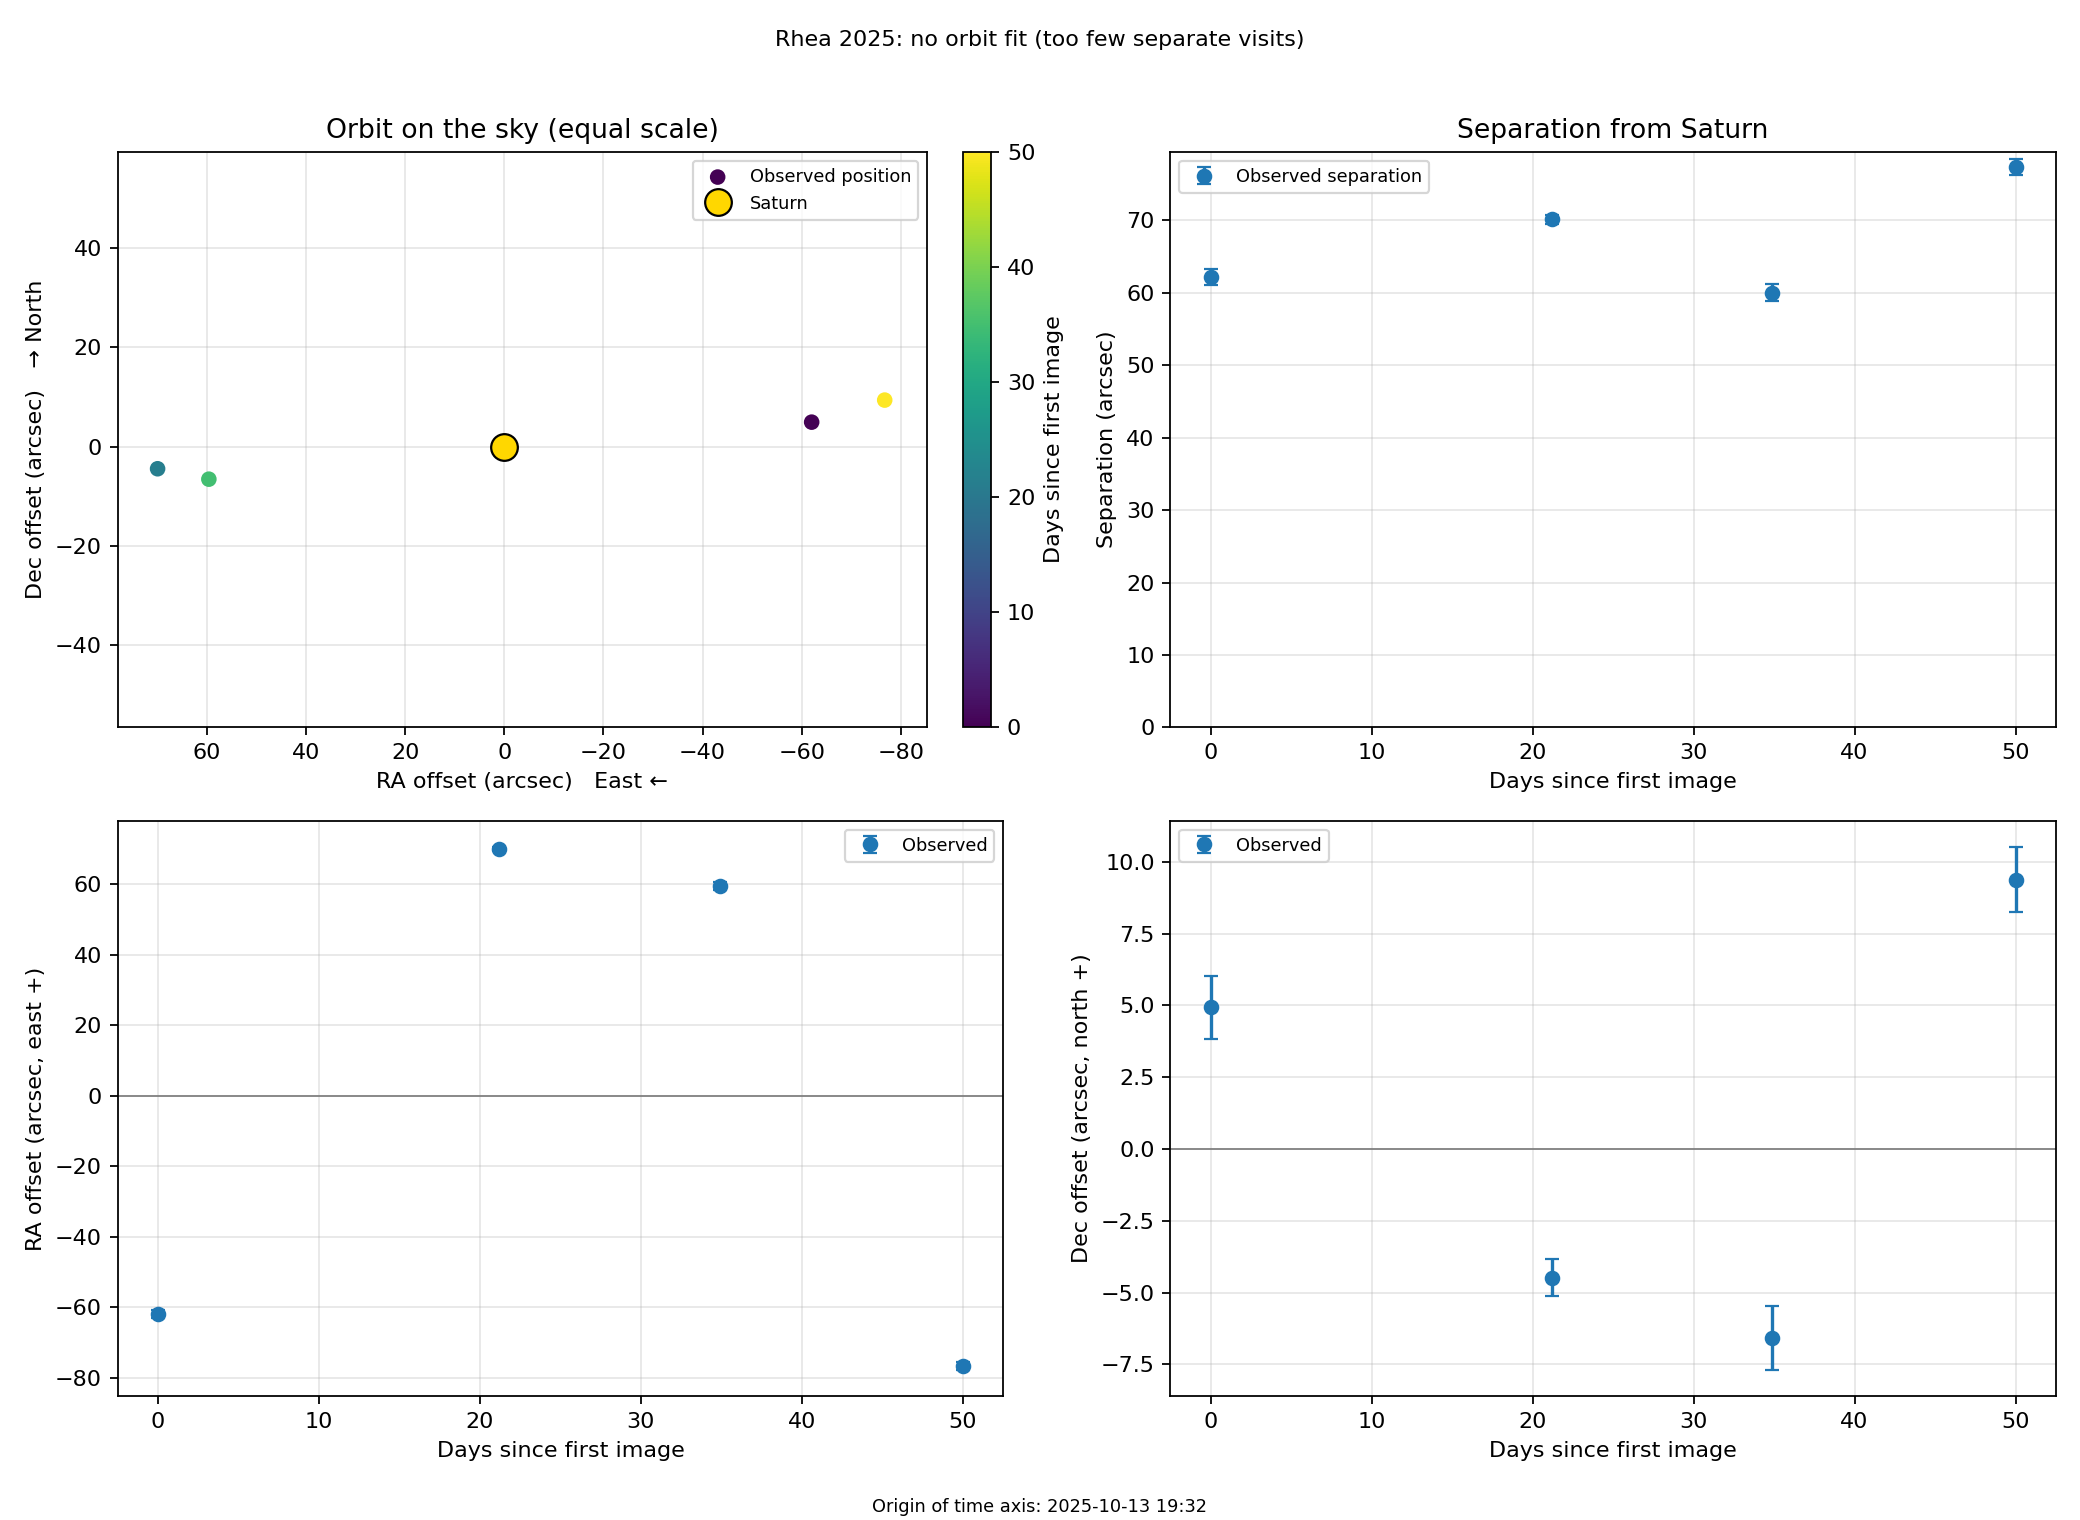
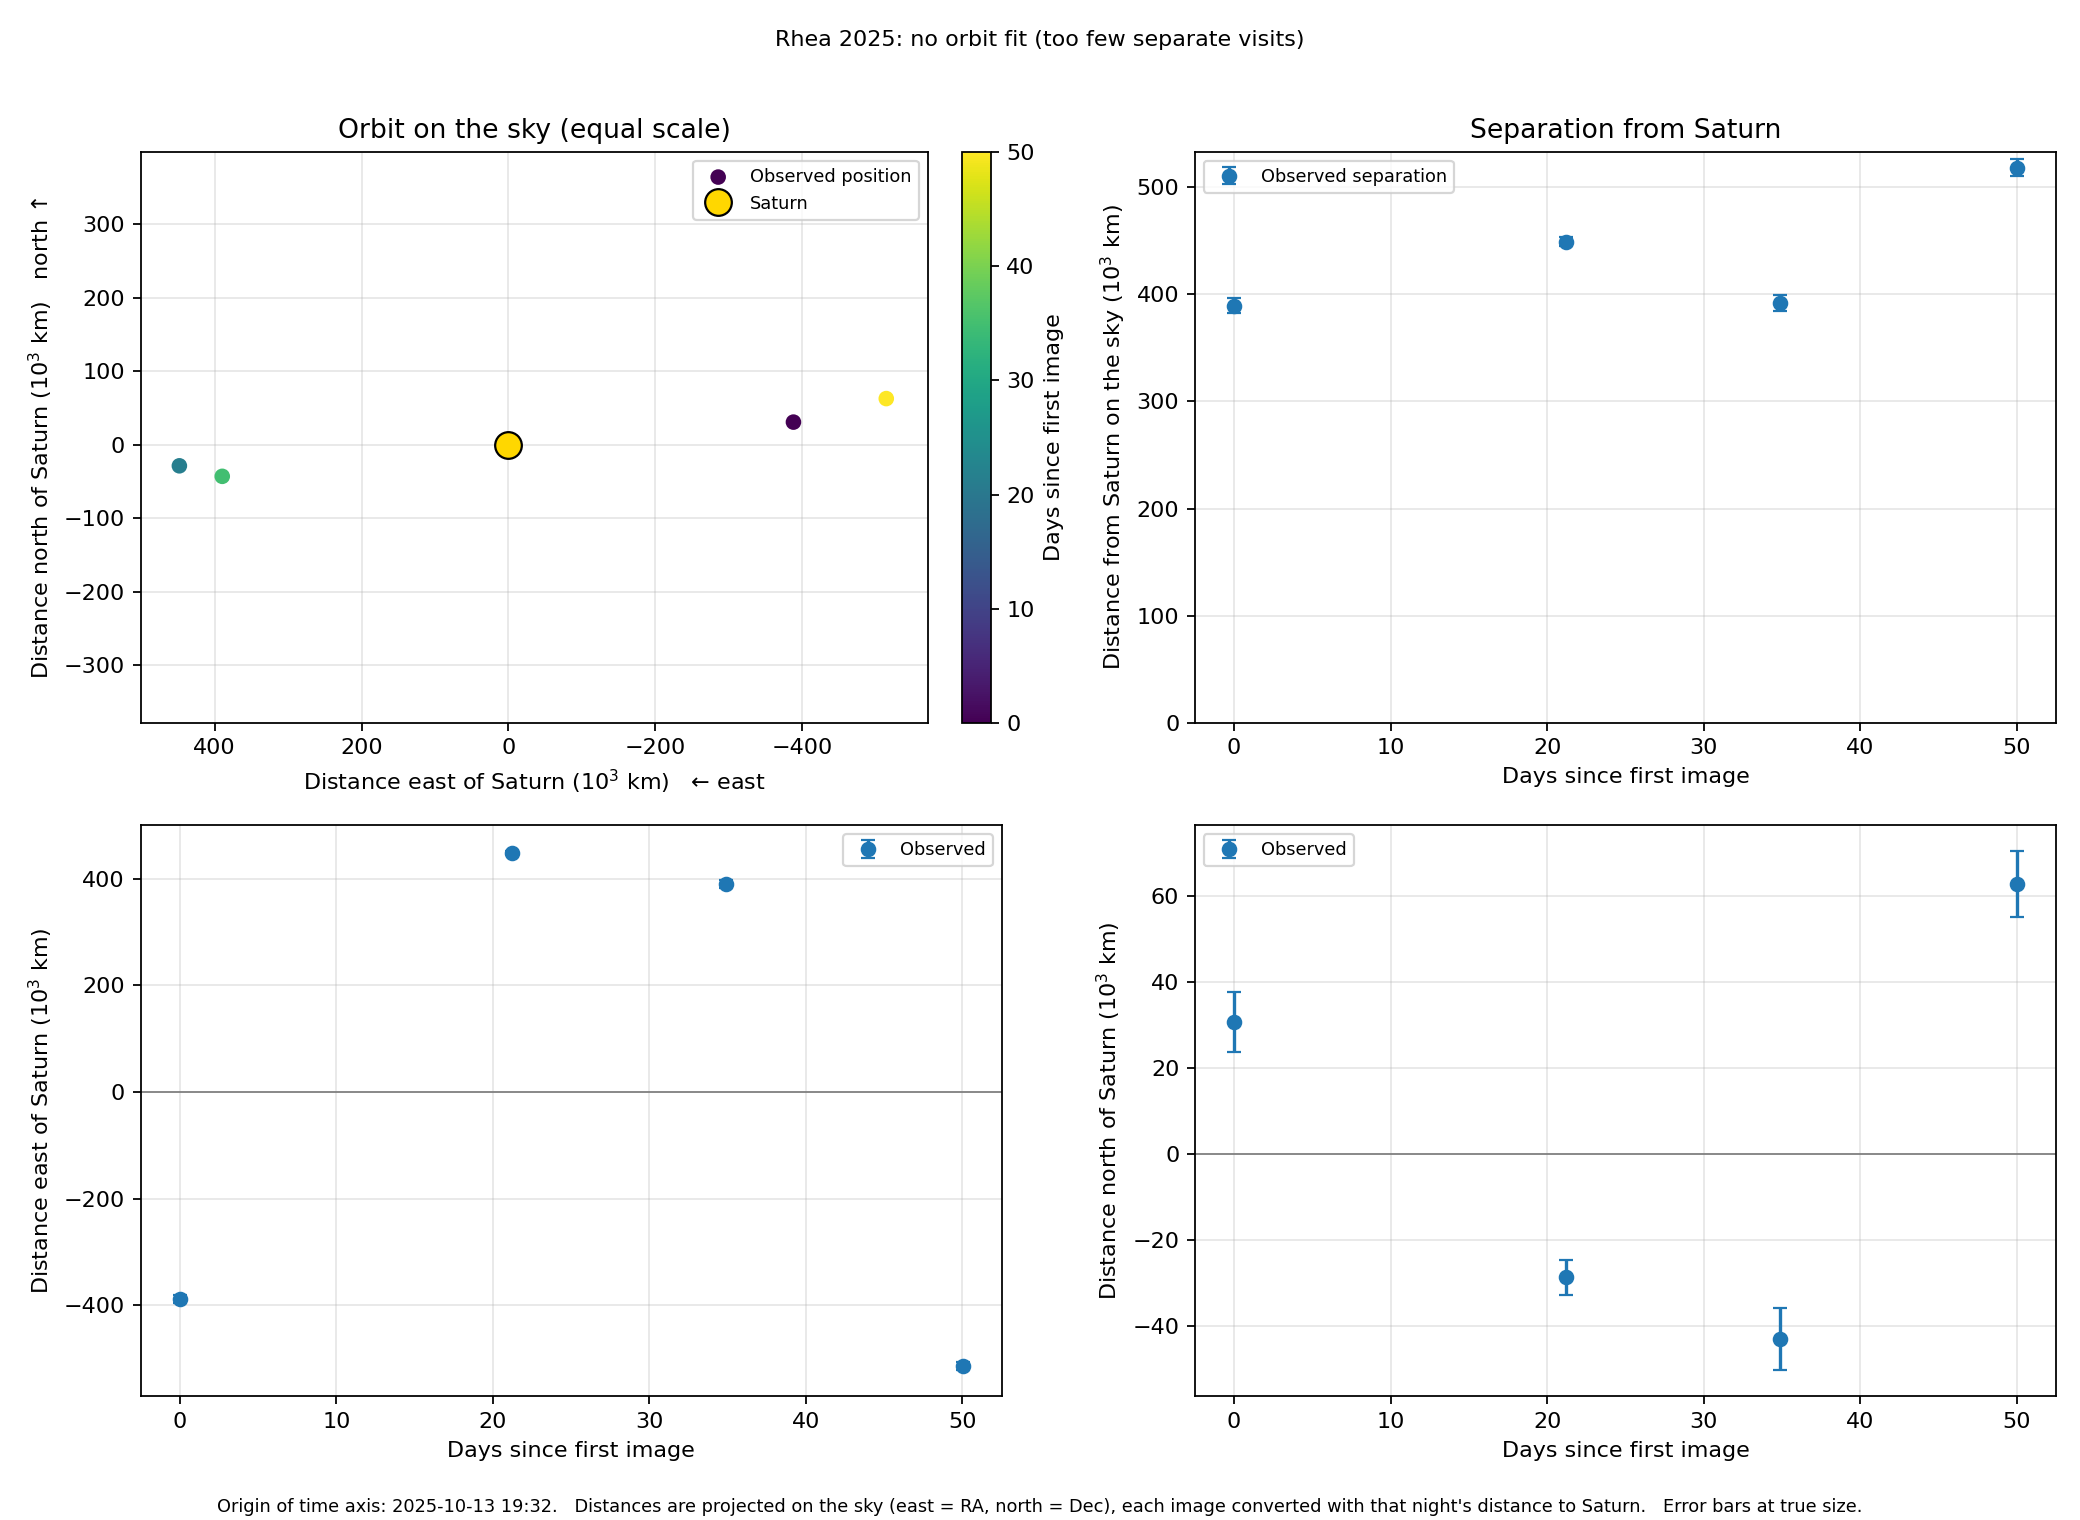
h

diff --git a/orbit_fit.py b/orbit_fit.py
@@ -120,14 +120,9 @@ MAKE_3D_PLOTS = True
 DZ_ERROR_KM = None
 ERRORBAR_COLOUR = "0.25"
 
-# The errors are thousands of km on orbits a million km across, so at true
-# size the bars hide behind the points. Two ways to make them visible:
-#  1. Magnify the bars on the orbit plots. "auto" picks a round factor so a
-#     typical bar is about 4% of the plot width; a number sets it yourself;
-#     1 draws them at true size. The factor is always written on the plot.
-#  2. A separate residual plot per moon (measured minus fitted position),
-#     where the bars are drawn at TRUE size on a zoomed-in scale.
-ERRORBAR_MAGNIFY = "1"
+# Every error bar is drawn at its TRUE size. On the full orbit plots they are
+# often smaller than the points; the residual plot per moon (measured minus
+# fitted position, zoomed in) shows them clearly, still at true size.
 MAKE_RESIDUAL_PLOTS = True
 
 # Direction check. All of a planet's regular moons orbit the same way (the
@@ -855,9 +850,40 @@ def model_from_fit(fit, t):
 # PLOTS
 # ============================================================
 
-def _sky_axes_labels(ax):
-    ax.set_xlabel("RA offset (arcsec)   East ←")
-    ax.set_ylabel("Dec offset (arcsec)   → North")
+def _km_scales(group, parent):
+    """
+    km per arcsec for every image (from that night's planet distance) and
+    km per arcsec at the reference distance the fit used (the mean distance).
+    The fit works in "arcsec at the reference distance", so the model is
+    converted with km_ref and each measured point with its own night's value.
+    Returns (km_each, km_ref), or (None, None) if no distance is known.
+    """
+
+    dsat = (
+        group["dsat_km"].to_numpy(dtype=float)
+        if "dsat_km" in group else np.full(len(group), np.nan)
+    )
+    finite = dsat[np.isfinite(dsat)]
+
+    if len(finite):
+        d_ref = float(finite.mean())
+    else:
+        au = FALLBACK_PLANET_DISTANCE_AU.get(parent)
+        if au is None:
+            return None, None
+        d_ref = au * 1.495978707e8
+
+    km_each = np.where(np.isfinite(dsat), dsat, d_ref) / ARCSEC_PER_RAD
+    return km_each, d_ref / ARCSEC_PER_RAD
+
+
+def _sky_axes_labels(ax, parent="planet", in_km=True):
+    # Projected distance from the planet on the sky, along the RA (east)
+    # and Dec (north) directions. Each night is converted to km with that
+    # night's distance, so a change in distance does not change the size.
+    unit = "10$^3$ km" if in_km else "arcsec"
+    ax.set_xlabel(f"Distance east of {parent.capitalize()} ({unit})   ← east")
+    ax.set_ylabel(f"Distance north of {parent.capitalize()} ({unit})   north ↑")
     ax.invert_xaxis()      # east on the left, as on the sky
     ax.set_aspect("equal", adjustable="datalim")
     ax.grid(True, alpha=0.3)
@@ -867,12 +893,37 @@ def plot_moon_year(group, fit, moon, year, parent, origin, path):
     """2 x 2 figure: sky-plane orbit, separation, RA(t), Dec(t)."""
 
     t = group["t"].to_numpy()
-    xi = group["sky_x_arcsec"].to_numpy()
-    eta = group["sky_y_arcsec"].to_numpy()
-    sep = group["separation_arcsec"].to_numpy()
-    sxi = group["sigma_sky_x"].to_numpy()
-    seta = group["sigma_sky_y"].to_numpy()
-    ssep = group["error_arcsec"].to_numpy()
+
+    # Everything is plotted as distance (thousands of km), not angle: each
+    # image is converted with that night's planet distance, and the model
+    # with the reference distance the fit used.
+    km_each, km_ref = _km_scales(group, parent)
+    in_km = km_each is not None
+    if in_km:
+        each = km_each / 1e3
+        ref = km_ref / 1e3
+        unit, unit_short = "10$^3$ km", "×10$^3$ km"
+    else:
+        each = np.ones(len(group))
+        ref = 1.0
+        unit, unit_short = "arcsec", "″"
+
+    xi = group["sky_x_arcsec"].to_numpy(dtype=float) * each
+    eta = group["sky_y_arcsec"].to_numpy(dtype=float) * each
+    sep = group["separation_arcsec"].to_numpy(dtype=float) * each
+    sxi = group["sigma_sky_x"].to_numpy(dtype=float) * each
+    seta = group["sigma_sky_y"].to_numpy(dtype=float) * each
+    ssep = group["error_arcsec"].to_numpy(dtype=float) * each
+
+    ecc = fit.get("ecc") if fit is not None else None
+
+    def model_xy(tt):
+        mx, my = model_from_fit(fit, tt)
+        return mx * ref, my * ref
+
+    def ecc_xy(tt):
+        x, y, _ = ecc_xyz(ecc, tt)
+        return x * ref, y * ref
 
     fig, axes = plt.subplots(2, 2, figsize=(13, 9.5))
     ax_sky, ax_sep, ax_xi, ax_eta = (
@@ -900,22 +951,20 @@ def plot_moon_year(group, fit, moon, year, parent, origin, path):
 
     if fit is not None:
         tt = np.linspace(0, fit["period"], 600)
-        ex, ey = model_from_fit(fit, tt)
+        ex, ey = model_xy(tt)
         ax_sky.plot(ex, ey, "--", color="tab:red", lw=1.2, label="Fitted orbit")
 
-        mx, my = model_from_fit(fit, t)
+        mx, my = model_xy(t)
         for x1, y1, x2, y2 in zip(xi, eta, mx, my):
             ax_sky.plot([x1, x2], [y1, y2], "-", color="tab:red", lw=0.8)
 
-    ecc = fit.get("ecc") if fit is not None else None
-
     if ecc is not None:
-        ex2, ey2, _ = ecc_xyz(ecc, np.linspace(0, ecc["period"], 600))
+        ex2, ey2 = ecc_xy(np.linspace(0, ecc["period"], 600))
         ax_sky.plot(ex2, ey2, "-", color="tab:orange", lw=1.4,
                     label=f"Eccentric fit (e = {ecc['e']:.3f})")
 
     ax_sky.set_title("Orbit on the sky (equal scale)")
-    _sky_axes_labels(ax_sky)
+    _sky_axes_labels(ax_sky, parent, in_km)
     ax_sky.legend(fontsize=8, loc="upper right")
 
     # ---- model time grid ------------------------------------
@@ -930,27 +979,27 @@ def plot_moon_year(group, fit, moon, year, parent, origin, path):
         label="Observed separation",
     )
     if fit is not None:
-        gx, gy = model_from_fit(fit, tg)
+        gx, gy = model_xy(tg)
         ax_sep.plot(tg, np.hypot(gx, gy), "-", color="tab:red", label="Model")
         ax_sep.axhline(
-            fit["a"], ls=":", color="k", lw=1,
-            label=f"a = {fit['a']:.1f}″ (max)",
+            fit["a"] * ref, ls=":", color="k", lw=1,
+            label=f"a = {fit['a'] * ref:,.1f} {unit_short} (max)",
         )
         ax_sep.axhline(
-            abs(fit["k"]) * fit["a"], ls=":", color="tab:blue", lw=1,
-            label=f"b = {abs(fit['k']) * fit['a']:.2f}″ (min)",
+            abs(fit["k"]) * fit["a"] * ref, ls=":", color="tab:blue", lw=1,
+            label=f"b = {abs(fit['k']) * fit['a'] * ref:,.1f} {unit_short} (min)",
         )
     ax_sep.set_title(f"Separation from {parent.capitalize()}")
     ax_sep.set_xlabel("Days since first image")
-    ax_sep.set_ylabel("Separation (arcsec)")
+    ax_sep.set_ylabel(f"Distance from {parent.capitalize()} on the sky ({unit})")
     ax_sep.set_ylim(bottom=0)
     ax_sep.grid(True, alpha=0.3)
     ax_sep.legend(fontsize=8)
 
     # ---- RA and Dec against time ----------------------------
     for ax, data, err, name, comp in (
-        (ax_xi, xi, sxi, "RA offset (arcsec, east +)", 0),
-        (ax_eta, eta, seta, "Dec offset (arcsec, north +)", 1),
+        (ax_xi, xi, sxi, f"Distance east of {parent.capitalize()} ({unit})", 0),
+        (ax_eta, eta, seta, f"Distance north of {parent.capitalize()} ({unit})", 1),
     ):
         ax.errorbar(
             t, data, yerr=bars(data, data, err), fmt="o", capsize=3,
@@ -958,13 +1007,13 @@ def plot_moon_year(group, fit, moon, year, parent, origin, path):
         )
         if fit is not None:
             ax.plot(
-                tg, model_from_fit(fit, tg)[comp], "-", color="tab:red",
+                tg, model_xy(tg)[comp], "-", color="tab:red",
                 label="Circular model",
             )
 
             if ecc is not None:
                 ax.plot(
-                    tg, ecc_xyz(ecc, tg)[comp], "-", color="tab:orange",
+                    tg, ecc_xy(tg)[comp], "-", color="tab:orange",
                     label="Eccentric model",
                 )
         ax.axhline(0, color="0.5", lw=0.8)
@@ -976,8 +1025,8 @@ def plot_moon_year(group, fit, moon, year, parent, origin, path):
     if fit is not None:
         tilt = np.degrees(np.arcsin(min(abs(fit["k"]), 1.0)))
         title = (
-            f"{moon.capitalize()} {year}:  a = {fit['a']:.2f} ± "
-            f"{fit['a_err']:.2f}″,  b/a = {abs(fit['k']):.3f} "
+            f"{moon.capitalize()} {year}:  a = {fit['a'] * ref:,.1f} ± "
+            f"{fit['a_err'] * ref:,.1f} {unit_short},  b/a = {abs(fit['k']):.3f} "
             f"(tilt {tilt:.1f}°),  P = {fit['period']:.4f} ± "
             f"{fit['period_err']:.4f} d ({fit['period_status']}, "
             f"{'with dz' if fit['used_dz'] else 'sky only'}),  "
@@ -989,7 +1038,9 @@ def plot_moon_year(group, fit, moon, year, parent, origin, path):
     fig.suptitle(title, fontsize=10)
     fig.text(
         0.5, 0.005,
-        f"Origin of time axis: {origin:%Y-%m-%d %H:%M}",
+        f"Origin of time axis: {origin:%Y-%m-%d %H:%M}.   Distances are projected "
+        f"on the sky (east = RA, north = Dec), each image converted with that "
+        f"night's distance to {parent.capitalize()}.   Error bars at true size.",
         ha="center", fontsize=8,
     )
     fig.tight_layout(rect=(0, 0.02, 1, 0.97))
@@ -1059,36 +1110,6 @@ def _error_note(ex, ey, ez):
         return ""
 
     return "Typical error bars: " + ", ".join(parts)
-
-
-def _magnification(error_arrays, radius):
-    """Round factor by which error bars are drawn larger than life."""
-
-    if ERRORBAR_MAGNIFY != "auto":
-        return max(float(ERRORBAR_MAGNIFY), 1.0)
-
-    values = [
-        v[np.isfinite(v) & (v > 0)] for v in error_arrays if v is not None
-    ]
-    values = [v for v in values if len(v)]
-
-    if not values:
-        return 1.0
-
-    typical = float(np.median(np.concatenate(values)))
-    wanted = 0.04 * radius / typical
-
-    for nice in (1, 2, 5, 10, 20, 50, 100, 200, 500, 1000):
-        if nice >= wanted:
-            return float(nice)
-
-    return 1000.0
-
-
-def _magnify_text(factor):
-    if factor <= 1:
-        return "Error bars at true size."
-    return f"Error bars drawn x{factor:g} so they can be seen."
 
 
 def plot_residuals(group, fit, moon, year, parent, path):
@@ -1338,8 +1359,6 @@ def plot_orbit_3d(group, fit, moon, year, parent, origin, path):
     errors = _errors_km(group, parent)
     err_x, err_y, err_z = errors if errors is not None else (None, None, None)
     bx, by, bz = _bars(err_x), _bars(err_y), _bars(err_z)
-    magnify = _magnification([err_x, err_y, err_z], radius)
-    bx, by, bz = [None if b is None else b * magnify for b in (bx, by, bz)]
 
     # ---- 3D ----
     if bx is not None or by is not None or bz is not None:
@@ -1425,7 +1444,7 @@ def plot_orbit_3d(group, fit, moon, year, parent, origin, path):
 
     note = _error_note(err_x, err_y, err_z)
     if note:
-        fig.text(0.5, 0.008, note + ".  " + _magnify_text(magnify),
+        fig.text(0.5, 0.008, note + ".  Error bars at true size.",
                  ha="center", va="bottom", fontsize=8, color="0.3")
 
     title = f"{moon.capitalize()} {year}: orbit around {parent.capitalize()}"
@@ -1585,12 +1604,6 @@ def plot_system_3d(groups, fits, parent, year, path):
         )
 
     all_sky_errors = []
-    every_error = []
-    for moon in pieces:
-        errors = _errors_km(groups[moon], parent)
-        if errors is not None:
-            every_error += list(errors)
-    magnify = _magnification(every_error, radius)
 
     for colour, (moon, geom) in zip(colours, pieces.items()):
         obs_x, obs_y, obs_z, _, curve, _, ecc_c = geom
@@ -1598,7 +1611,6 @@ def plot_system_3d(groups, fits, parent, year, path):
         errors = _errors_km(groups[moon], parent)
         err_x, err_y, err_z = errors if errors is not None else (None, None, None)
         bx, by, bz = _bars(err_x), _bars(err_y), _bars(err_z)
-        bx, by, bz = [None if b is None else b * magnify for b in (bx, by, bz)]
         for values in (err_x, err_y):
             if values is not None and np.isfinite(values).any():
                 all_sky_errors.append(values[np.isfinite(values)])
@@ -1703,7 +1715,7 @@ def plot_system_3d(groups, fits, parent, year, path):
         typical = float(np.median(np.concatenate(all_sky_errors)))
         lines.append("")
         lines.append(f"Error bars: east/north typically ±{typical:,.0f} km")
-        lines.append("            " + _magnify_text(magnify))
+        lines.append("            (drawn at true size)")
         lines.append(
             f"            depth ±{float(DZ_ERROR_KM):,.0f} km" if DZ_ERROR_KM is not None
             else "            depth from ephemeris (no measured error)"
@@ -1958,12 +1970,23 @@ def plot_system_view(year_df, fits, parent, year, path):
     ax.plot(0, 0, "o", color="gold", mec="k", ms=14, zorder=5,
             label=parent.capitalize())
 
+    # Distance (thousands of km), each image converted with that night's
+    # planet distance and each model with its fit's reference distance.
+    # Error bars at true size.
+    in_km = True
     for colour, moon in zip(colours, moons):
         g = year_df.loc[year_df["moon"] == moon]
+        km_each, km_ref = _km_scales(g, parent)
+        if km_each is None:
+            in_km = False
+            each, ref = np.ones(len(g)), 1.0
+        else:
+            each, ref = km_each / 1e3, km_ref / 1e3
         sx, sy = sky_errors(g)
         ax.errorbar(
-            g["sky_x_arcsec"], g["sky_y_arcsec"],
-            xerr=_bars(sx), yerr=_bars(sy),
+            g["sky_x_arcsec"].to_numpy(dtype=float) * each,
+            g["sky_y_arcsec"].to_numpy(dtype=float) * each,
+            xerr=_bars(sx * each), yerr=_bars(sy * each),
             fmt="o", color=colour, ecolor=colour, elinewidth=0.9, capsize=2,
             ms=5, label=moon.capitalize(), zorder=4,
         )
@@ -1972,10 +1995,10 @@ def plot_system_view(year_df, fits, parent, year, path):
         if fit is not None:
             tt = np.linspace(0, fit["period"], 600)
             ex, ey = model_from_fit(fit, tt)
-            ax.plot(ex, ey, "--", color=colour, lw=1)
+            ax.plot(ex * ref, ey * ref, "--", color=colour, lw=1)
 
-    ax.set_title(f"{parent.capitalize()} system on the sky, {year}")
-    _sky_axes_labels(ax)
+    ax.set_title(f"{parent.capitalize()} system on the sky, {year}", fontsize=11)
+    _sky_axes_labels(ax, parent, in_km)
     ax.legend(fontsize=8, ncol=2)
     fig.tight_layout()
     fig.savefig(path, dpi=160)
